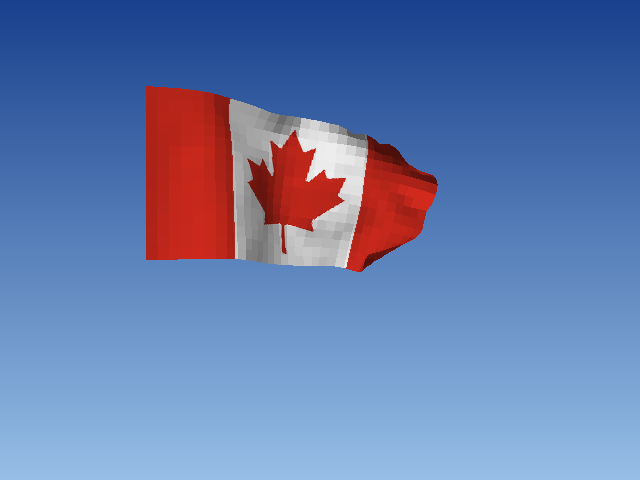
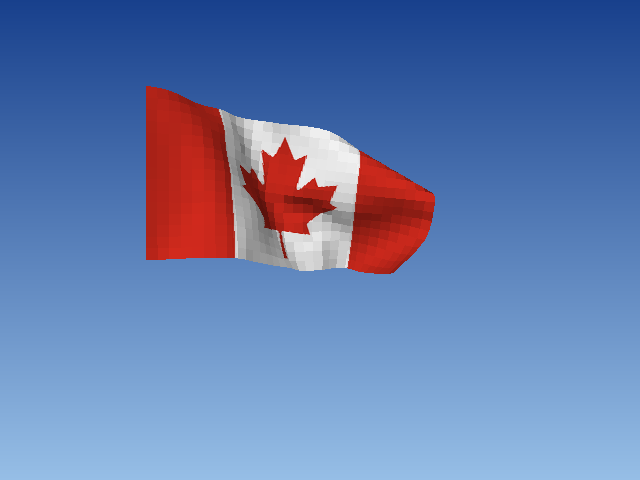
fix(ts-flag): strain limiting and extra pole passes keep the cloth inextensible in gusts

Changed region(s): [[0.25, 0.1562, 0.6875, 0.5938]]

diff --git a/files/effects/ts-flag/src/cloth.ts b/files/effects/ts-flag/src/cloth.ts
@@ -26,6 +26,10 @@ const DAMPING = 0.99; // fraction of the speed kept from one step to the next
 const SUB_DAMPING = Math.pow(DAMPING, 1 / SUBSTEPS); // same, per sub-step
 const SHEAR = 0.5; // stiffness of the diagonal links (fraction of the correction applied)
 const BEND = 0.1; // stiffness of the links 2 apart: soft, so the cloth can fold
+const POLE_COLUMNS = 4; // columns next to the pole ...
+const POLE_ITERATIONS = 4; // ... relaxed this many more times per sub-step
+const MAX_STRETCH = 1.02; // strain limiting: longest (and 1 / shortest) allowed link between direct neighbours
+const LIMIT_ITERATIONS = 2; // strain limiting passes per sub-step
 const ANCHORS = 3; // long range attachments per point
 const WAVE = 0.6; // wind turbulence travelling along the cloth (fraction of the wind, in z)
 const WAVE_K = 0.45; // ... its spatial frequency (radians per column)
@@ -59,6 +63,7 @@ export class Cloth {
     private readonly linkA_: Uint16Array; // links: first end, second end, rest length
     private readonly linkB_: Uint16Array;
     private readonly linkLen_: Float64Array;
+    private readonly poleLinks_: number; // number of links starting in the POLE_COLUMNS first columns (listed first)
     private readonly structural_: Uint8Array; // =1 for the links between direct neighbours
     private readonly stiffness_: Float64Array; // fraction of the correction applied per pass
     private readonly anchor_: Uint16Array; // long range attachments: point index of the anchor (3 per point)
@@ -110,7 +115,9 @@ export class Cloth {
                 stiffness.push(k);
             }
         };
+        let poleLinks = 0;
         for (let c = 0; c < cols; c++) {
+            if (c === POLE_COLUMNS) poleLinks = a.length;
             for (let r = 0; r < rows; r++) {
                 add(c, r, c + 1, r, 1);
                 add(c, r, c, r + 1, 1);
@@ -122,6 +129,7 @@ export class Cloth {
         }
         this.linkA_ = Uint16Array.from(a);
         this.linkB_ = Uint16Array.from(b);
+        this.poleLinks_ = poleLinks;
         this.structural_ = Uint8Array.from(structural);
         this.stiffness_ = Float64Array.from(stiffness);
         this.linkLen_ = new Float64Array(a.length);
@@ -185,6 +193,16 @@ export class Cloth {
             for (let it = 0; it < ITERATIONS; it++) {
                 this.relax((it & 1) === 1);
                 this.attach();
+            }
+
+            // the links near the pole carry the weight of the whole flag: extra passes on them
+            for (let it = 0; it < POLE_ITERATIONS; it++) {
+                this.relax((it & 1) === 1, this.poleLinks_);
+            }
+
+            // and no link too long anywhere (a gust hitting the hanging flag whips its tip)
+            for (let it = 0; it < LIMIT_ITERATIONS; it++) {
+                this.relax((it & 1) === 1, this.linkLen_.length, true);
             }
         }
 
@@ -305,15 +323,15 @@ export class Cloth {
         }
     }
 
-    // one relaxation pass over all the links, from the pole outward (or backward: alternating the
-    // order spreads the corrections both ways)
-    private relax(backward: boolean): void {
+    // one relaxation pass over the first `count` links (all by default), from the pole outward
+    // (or backward: alternating the order spreads the corrections both ways)
+    private relax(backward: boolean, count: number = this.linkLen_.length, limit: boolean = false): void {
         const pos = this.pos;
         const pinned = this.pinned_;
-        const count = this.linkLen_.length;
 
         for (let j = 0; j < count; j++) {
             const k = backward ? count - 1 - j : j;
+            if (limit && !this.structural_[k]) continue;
             const a = this.linkA_[k];
             const b = this.linkB_[k];
             const ia = a * 3;
@@ -324,7 +342,22 @@ export class Cloth {
             const len = Math.sqrt(dx * dx + dy * dy + dz * dz);
             if (len < EPSILON) continue;
 
-            const corr = ((len - this.linkLen_[k]) / len) * this.stiffness_[k];
+            // strain limiting: only the links between direct neighbours more than MAX_STRETCH longer
+            // (or shorter) than at rest, brought back to that length
+            let corr: number;
+            if (limit) {
+                const max = this.linkLen_[k] * MAX_STRETCH;
+                const min = this.linkLen_[k] / MAX_STRETCH;
+                if (len > max) {
+                    corr = (len - max) / len;
+                } else if (len < min) {
+                    corr = (len - min) / len;
+                } else {
+                    continue;
+                }
+            } else {
+                corr = ((len - this.linkLen_[k]) / len) * this.stiffness_[k];
+            }
             const pa = pinned[a];
             const pb = pinned[b];
             if (pa && pb) continue;

diff --git a/tests/effects/flag.test.ts b/tests/effects/flag.test.ts
@@ -100,6 +100,17 @@ describe("cloth", () => {
         expect(columnMean(windy, COLS - 1, 0)).toBeGreaterThan(columnMean(still, COLS - 1, 0) + 50);
     });
 
+    test("stays inextensible when a gust hits the hanging flag", () => {
+        const cloth = make();
+        run(cloth, 100, 0.5, null);
+        let max = 0;
+        for (let i = 0; i < 200; i++) {
+            cloth.step(0.5, { x: 6, y: 0, z: 2 });
+            max = Math.max(max, cloth.maxStretch());
+        }
+        expect(max).toBeLessThan(0.08);
+    });
+
     test("stays inextensible in gusts", () => {
         const cloth = make();
         run(cloth, 200, 0.5, { x: 6, y: 0, z: 2 });
@@ -224,9 +235,11 @@ describe("flag effect", () => {
 
     test("restart is identical", async () => {
         // harness frame k = effect frame k-1 (the first run() only starts the throttle)
-        const res = await runEffect(Flag, CYCLE_FRAMES + 20, 1);
-        for (const k of [1, 5, 19]) {
+        const res = await runEffect(Flag, CYCLE_FRAMES + STILL_FRAMES + FALL_FRAMES + RAMP_FRAMES + 10, 1);
+        const windy = STILL_FRAMES + FALL_FRAMES + RAMP_FRAMES + 5; // the cloth has been stepped
+        for (const k of [1, 5, 19, windy]) {
             expect(res.checkpoints[String(CYCLE_FRAMES + k)]).toBe(res.checkpoints[String(k)]);
         }
+        expect(res.checkpoints[String(windy)]).not.toBe(res.checkpoints["5"]);
     }, 120000);
 });

diff --git a/files/effects/ts-flag/README.md b/files/effects/ts-flag/README.md
@@ -41,7 +41,9 @@ There are three kinds of links:
 
 The whole weight of the flag hangs on the top of the pole, which a few passes cannot hold: every point is also tied
 to the top, the bottom and its own point of the pole, and is never allowed to be further from them than at rest
-("long range attachments"). Each frame is split in 16 small steps to keep the fabric tight.
+("long range attachments"), and the links next to the pole get extra passes. Each frame is split in 16 small steps,
+and each step ends with a "strain limiting" pass: a link between neighbours more than 2 % longer or shorter than at
+rest is brought back to that limit. Even a gust hitting the hanging flag stretches it by a few percent at most.
 
 The wind pushes each cell along its normal, proportionally to how much the cell faces the wind. A cell facing the wind is
 pushed, a cell edge-on is not: this is what lifts the flag and makes it ripple. On top of it, a small drag along the wind
